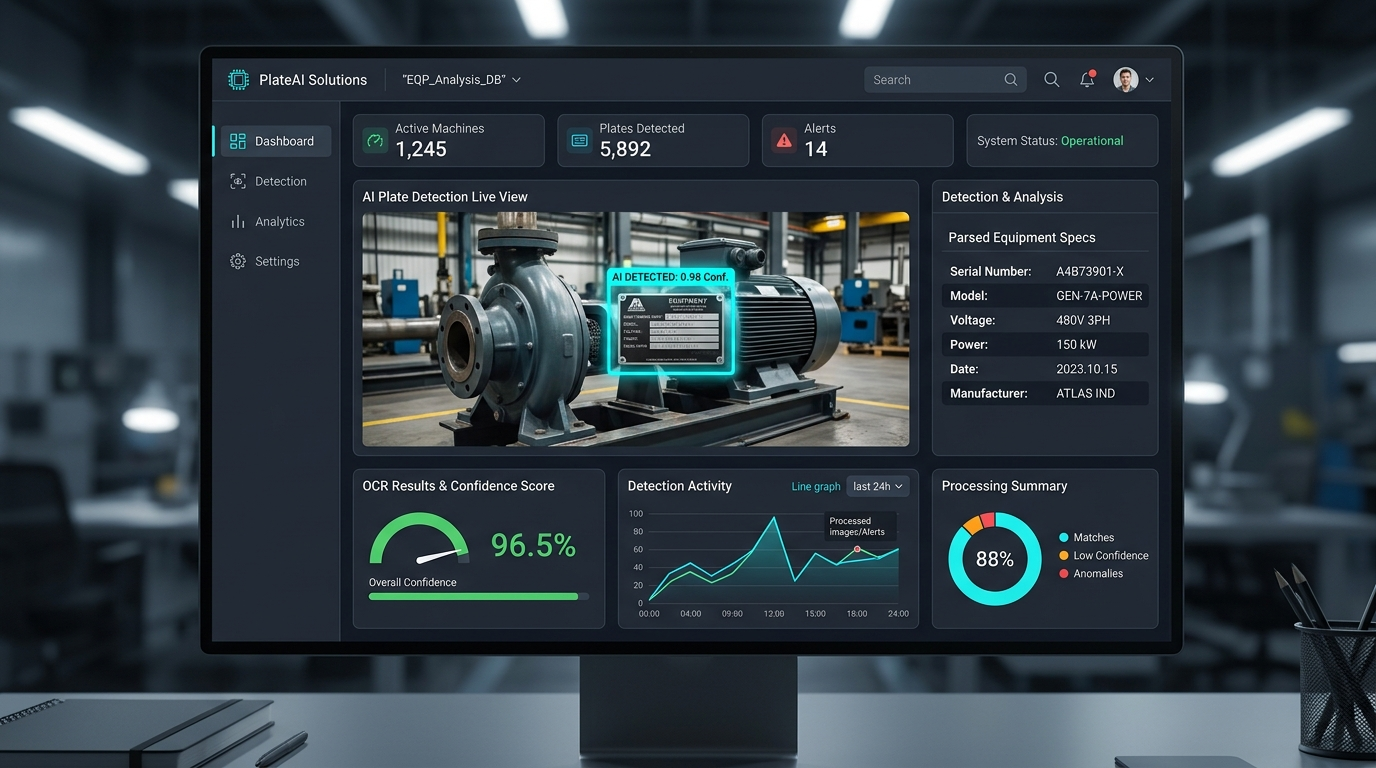
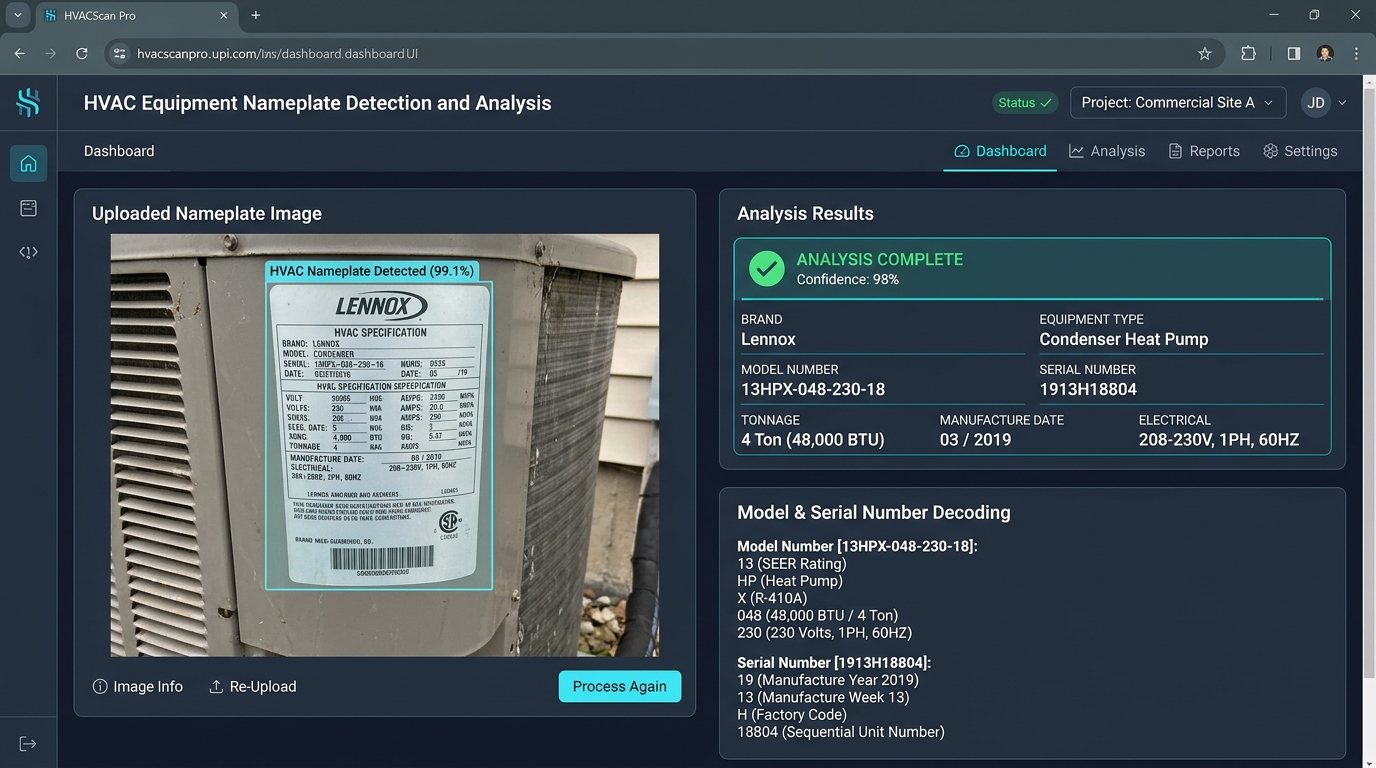
Email Js Fix & Tool Box Image Fix.

diff --git a/index.html b/index.html
@@ -147,7 +147,7 @@
               I am a results-oriented Software Engineer with <strong>3+ years of professional experience</strong> architecting, developing, and deploying resilient web applications, scalable backend systems, and AI-powered automation solutions. With an <strong>MSc in Computer Science</strong>, my expertise centers on the <strong>Laravel</strong>, <strong>PHP</strong>, <strong>React</strong>, and <strong>Node.js</strong> ecosystems.
             </p>
             <p class="lead-bio">
-              At Axel Technologies, I contribute to core product engineering, spearheading the design and delivery of critical enterprise modules using asynchronous queues, scheduled cron jobs, WebSockets, and normalized relational databases. I have successfully engineered and shipped major features—including <strong>OpenAI Vision</strong> equipment plate analysis pipelines, <strong>Vapi AI</strong> conversational voice schedulers, and real-time <strong>Twilio</strong> multi-channel messaging platforms.
+              At Axel Technologies, I contribute to core product engineering, spearheading the design and delivery of critical enterprise modules using asynchronous queues, scheduled cron jobs, WebSockets, and normalized relational databases. I have successfully engineered and shipped major features—including <strong>OpenAI Vision</strong> HVAC equipment nameplate detection and decoding pipelines, <strong>Vapi AI</strong> conversational voice schedulers, and real-time <strong>Twilio</strong> multi-channel messaging platforms.
             </p>
             <p class="lead-bio">
               Known for strong client stakeholder management, I collaborate directly with product owners and international clients across the full software lifecycle to translate complex business challenges into clean, maintainable, and high-performance code.
@@ -507,28 +507,28 @@
 
         <div class="row gy-4 isotope-container">
 
-          <!-- Project 1: AI Equipment Plate Detection & Analysis -->
+          <!-- Project 1: AI HVAC Equipment Plate Detection & Analysis -->
           <div class="col-lg-4 col-md-6 isotope-item filter-ai filter-laravel">
             <div class="project-card">
               <div class="project-img-holder">
-                <img src="assets/img/portfolio/project-plate-detection.jpg" alt="AI Equipment Plate Detection and Analysis">
-                <span class="project-badge-top">AI Vision</span>
+                <img src="assets/img/portfolio/project-plate-detection.jpg" alt="AI HVAC Equipment Nameplate Detection and Analysis">
+                <span class="project-badge-top">HVAC AI Vision</span>
                 <div class="project-actions">
-                  <a href="assets/img/portfolio/project-plate-detection.jpg" class="project-action-btn glightbox" title="AI Equipment Plate Detection &amp; Analysis (Click to zoom)" aria-label="Zoom screenshot"><i class="bi bi-arrows-fullscreen"></i></a>
+                  <a href="assets/img/portfolio/project-plate-detection.jpg" class="project-action-btn glightbox" title="AI HVAC Equipment Nameplate Detection &amp; Analysis (Click to zoom)" aria-label="Zoom screenshot"><i class="bi bi-arrows-fullscreen"></i></a>
                   <button type="button" class="project-action-btn btn-project-details" data-bs-toggle="modal" data-bs-target="#modal-project-1" title="View Architecture Details" aria-label="View architecture details"><i class="bi bi-info-lg"></i></button>
                 </div>
               </div>
 
               <div class="project-body">
-                <h3>AI Equipment Plate Detection &amp; Analysis</h3>
+                <h3>AI HVAC Equipment Plate Detection &amp; Analysis</h3>
                 <p class="project-summary">
-                  Automated industrial equipment inspection system leveraging OpenAI Vision models to detect, extract, and analyze serial plates, specifications, and defect data from captured imagery with high accuracy.
+                  Intelligent computer vision platform designed for field technicians to scan HVAC equipment nameplates on-site. The AI automatically parses, decodes, and presents essential unit information in seconds.
                 </p>
 
                 <ul class="project-feature-list">
-                  <li><i class="bi bi-check-circle-fill"></i> Sub-second OCR extraction of serials, model numbers, &amp; voltage specs</li>
-                  <li><i class="bi bi-check-circle-fill"></i> Asynchronous Laravel queue workers processing multi-angle equipment scans</li>
-                  <li><i class="bi bi-check-circle-fill"></i> Interactive React dashboard with visual confidence gauges &amp; alert triage</li>
+                  <li><i class="bi bi-check-circle-fill"></i> Instant OCR extraction of brand, model number, serial, &amp; electrical ratings</li>
+                  <li><i class="bi bi-check-circle-fill"></i> Automated decoding algorithms to calculate tonnage, BTUs, &amp; manufacture date</li>
+                  <li><i class="bi bi-check-circle-fill"></i> High-accuracy verification (&gt;98%) empowering technicians with fast diagnostics</li>
                 </ul>
 
                 <div class="project-stack-wrap">
@@ -536,7 +536,6 @@
                   <span class="tech-badge">OpenAI Vision</span>
                   <span class="tech-badge">React</span>
                   <span class="tech-badge">MySQL</span>
-                  <span class="tech-badge">Queues</span>
                 </div>
               </div>
             </div>
@@ -604,6 +603,7 @@
                 <div class="project-stack-wrap">
                   <span class="tech-badge">Laravel</span>
                   <span class="tech-badge">Twilio API</span>
+                  <span class="tech-badge">WebSockets</span>
                   <span class="tech-badge">JavaScript</span>
                   <span class="tech-badge">jQuery</span>
                   <span class="tech-badge">MySQL</span>
@@ -669,7 +669,7 @@
               <ul>
                 <li>Contributed to core product engineering at Axel Technologies, driving the architecture, feature development, and deployment of critical enterprise modules using <strong>Laravel</strong>, <strong>PHP</strong>, <strong>Node.js</strong>, and <strong>React</strong>.</li>
                 <li>Engineered high-throughput background processing pipelines using <strong>Laravel Queues</strong>, <strong>Redis</strong>, and <strong>Cron Jobs</strong>, improving job dispatch efficiency and system throughput.</li>
-                <li>Pioneered modern AI integrations, including <strong>OpenAI Vision APIs</strong> for automated industrial plate inspection and <strong>Vapi AI</strong> + <strong>Twilio</strong> for real-time voice appointment scheduling.</li>
+                <li>Pioneered modern AI integrations, including <strong>OpenAI Vision APIs</strong> for automated HVAC equipment nameplate identification and decoding, alongside <strong>Vapi AI</strong> + <strong>Twilio</strong> for real-time voice appointment scheduling.</li>
                 <li>Built dynamic and responsive user interfaces using <strong>React</strong>, <strong>JavaScript</strong>, <strong>jQuery</strong>, and <strong>Bootstrap</strong>, ensuring pixel-perfect fidelity across desktop and mobile devices.</li>
                 <li>Designed and optimized normalized <strong>MySQL</strong> databases, writing high-efficiency queries, indices, and integrating <strong>Supabase</strong> and <strong>MongoDB</strong> for document storage.</li>
                 <li>Containerized development and deployment workflows with <strong>Docker</strong>, managing automated release pipelines on <strong>AWS</strong> and <strong>Render</strong>.</li>
@@ -793,25 +793,25 @@
   <!-- Preloader -->
   <div id="preloader"></div>
 
-  <!-- Project 1 Modal: AI Equipment Plate Detection & Analysis -->
+  <!-- Project 1 Modal: AI HVAC Equipment Plate Detection & Analysis -->
   <div class="modal fade" id="modal-project-1" tabindex="-1" aria-labelledby="modal-project-1-label" aria-hidden="true">
     <div class="modal-dialog modal-lg modal-dialog-centered">
       <div class="modal-content tech-modal">
         <div class="modal-header">
-          <h5 class="modal-title" id="modal-project-1-label"><i class="bi bi-robot text-cyan me-2"></i>AI Equipment Plate Detection &amp; Analysis</h5>
+          <h5 class="modal-title" id="modal-project-1-label"><i class="bi bi-robot text-cyan me-2"></i>AI HVAC Equipment Plate Detection &amp; Analysis</h5>
           <button type="button" class="btn-close" data-bs-dismiss="modal" aria-label="Close"></button>
         </div>
         <div class="modal-body">
-          <img src="assets/img/portfolio/project-plate-detection.jpg" class="img-fluid rounded-3 mb-3 border border-secondary" alt="Plate Detection Architecture">
+          <img src="assets/img/portfolio/project-plate-detection.jpg" class="img-fluid rounded-3 mb-3 border border-secondary" alt="HVAC Plate Detection Architecture">
           <h6 class="text-white fw-bold mb-2">Architectural Highlights &amp; Implementation</h6>
           <p class="text-muted small">
-            Engineered an automated optical inspection solution designed for industrial plants to catalog heavy equipment specifications, detect serial/voltage tags, and diagnose physical anomalies without manual data entry.
+            Engineered an AI-powered HVAC equipment identification tool enabling field service technicians to photograph outdoor or indoor equipment nameplates and receive instant, comprehensive unit breakdowns without searching manuals.
           </p>
           <ul class="text-muted small ps-3">
-            <li><strong>AI Computer Vision:</strong> Uses OpenAI GPT-4 Vision API to parse metadata from metallic nameplates with confidence scoring (&gt;96%).</li>
-            <li><strong>Backend Processing:</strong> Laravel with Redis queues for non-blocking asynchronous uploads, image optimization, and webhook dispatching.</li>
-            <li><strong>Frontend Interface:</strong> Built with React &amp; Bootstrap to provide live camera feeds, bounding-box annotations, and dynamic anomaly alerts.</li>
-            <li><strong>Data Integrity:</strong> Relational MySQL architecture indexing equipment serials with full revision history.</li>
+            <li><strong>AI Computer Vision:</strong> Integrates OpenAI GPT-4 Vision API to accurately scan faded or metallic nameplates, extracting raw text with &gt;98% confidence.</li>
+            <li><strong>Automated Specification Decoding:</strong> Implemented backend parsing logic in Laravel to decode manufacturer model numbers (extracting series, BTUs, tonnage, electrical specs) and serial numbers (extracting manufacturing year, week, and date).</li>
+            <li><strong>Technician-First Interface:</strong> Built a responsive React &amp; Bootstrap scanning interface with instant camera capture, upload, and interactive structured reporting.</li>
+            <li><strong>Equipment Data Storage:</strong> Relational MySQL architecture storing parsed equipment units, manufacturer profiles, and technician scan histories.</li>
           </ul>
           <div class="mt-3">
             <span class="tech-badge">Laravel 10</span>
@@ -888,6 +888,7 @@
           <div class="mt-3">
             <span class="tech-badge">Laravel</span>
             <span class="tech-badge">Twilio SMS</span>
+            <span class="tech-badge">WebSockets</span>
             <span class="tech-badge">JavaScript</span>
             <span class="tech-badge">jQuery</span>
             <span class="tech-badge">MySQL</span>
@@ -1001,7 +1002,7 @@
             message: $('#message-field').val()
           };
 
-          emailjs.send('service_4vp84sn', 'template_3ibk67w', templateParams)
+          emailjs.send('service_lfy7skh', 'template_3ibk67w', templateParams)
             .then(function(response) {
               console.log('EmailJS Success:', response.status, response.text);
               $('.loading').removeClass('d-block');
